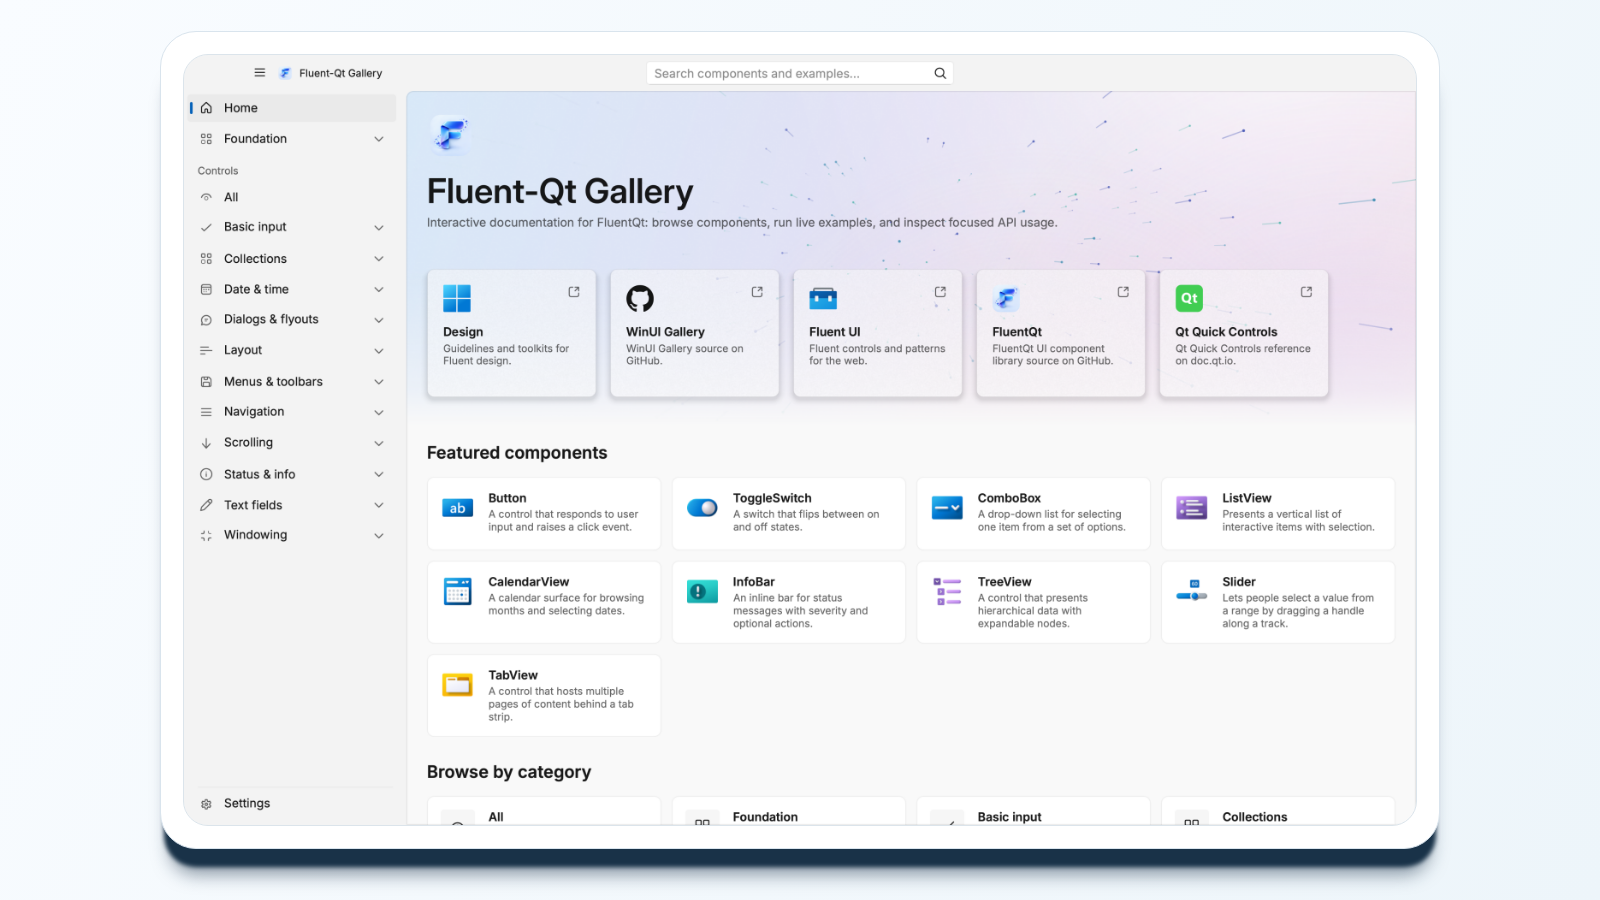
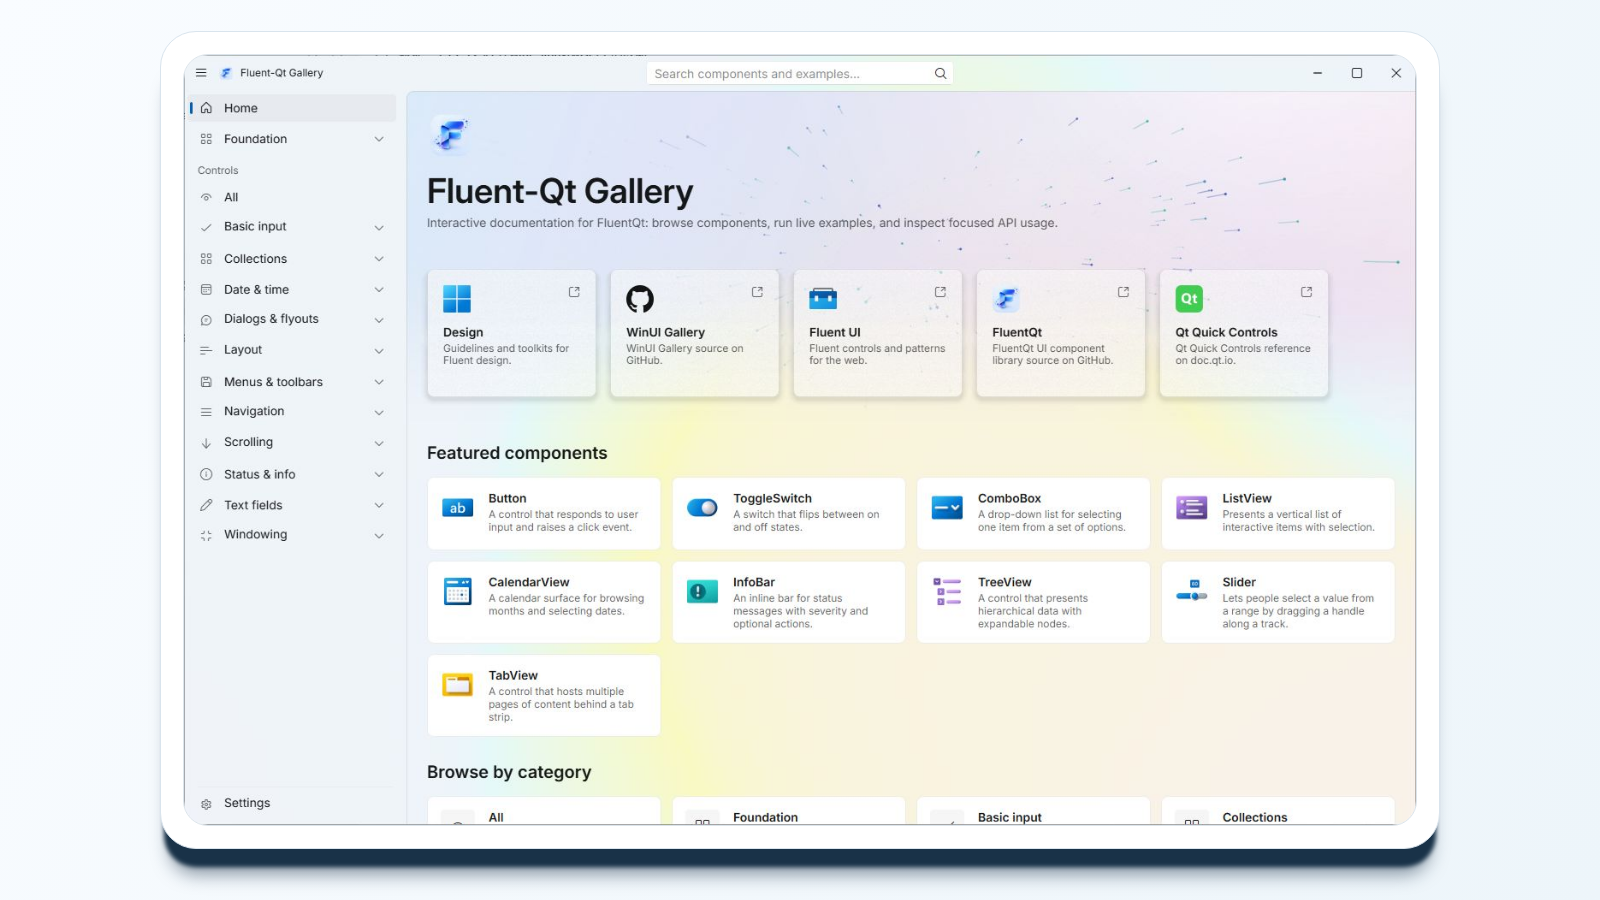
docs(site): refresh gallery materials with Windows Mica captures
Replace first-party README and website imagery with native Windows light/dark captures, regenerate promotional assets and localized pages, and document the capture workflow. Preserve DeepSeek case images and leave runtime behavior unchanged.

diff --git a/site/zh-CN/index.html b/site/zh-CN/index.html
@@ -25,7 +25,7 @@
     <meta property="og:url" content="https://calvinhxx.github.io/Fluent-Qt/zh-CN/">
     <meta property="og:locale" content="zh_CN">
     <meta property="og:locale:alternate" content="en_US">
-    <meta property="og:image" content="https://calvinhxx.github.io/Fluent-Qt/assets/og.png?v=8d51afd1e1c7">
+    <meta property="og:image" content="https://calvinhxx.github.io/Fluent-Qt/assets/og.png?v=bc0a71a1892e">
     <meta property="og:image:type" content="image/png">
     <meta property="og:image:width" content="1731">
     <meta property="og:image:height" content="909">
@@ -36,7 +36,7 @@
       name="twitter:description"
       content="FluentQt（Fluent-Qt）是面向 Qt Widgets 的 C++17 Fluent UI 控件库，支持 Qt 5/6、可选 PySide6 绑定和 WebAssembly。在线体验 Gallery，查看 API 与接入示例。"
     >
-    <meta name="twitter:image" content="https://calvinhxx.github.io/Fluent-Qt/assets/og.png?v=8d51afd1e1c7">
+    <meta name="twitter:image" content="https://calvinhxx.github.io/Fluent-Qt/assets/og.png?v=bc0a71a1892e">
     <meta name="twitter:image:alt" content="Fluent-Qt Gallery 项目预览，展示原生 Qt Widgets 控件。">
     <meta name="fluent-qt-cloudflare-token" content="faf445759813451ca2d7a0652139b292">
     <link rel="icon" href="../assets/app-icon.png?v=6bb48ccbdf19">
@@ -59,7 +59,7 @@
             ],
             "version": "1.8.3",
             "license": "https://github.com/calvinhxx/Fluent-Qt/blob/main/LICENSE",
-            "image": "https://calvinhxx.github.io/Fluent-Qt/assets/og.png?v=8d51afd1e1c7",
+            "image": "https://calvinhxx.github.io/Fluent-Qt/assets/og.png?v=bc0a71a1892e",
             "inLanguage": "zh-CN",
             "sameAs": [
               "https://github.com/calvinhxx/Fluent-Qt",
@@ -228,10 +228,10 @@
               data-analytics-event="hero_visual_gallery"
             >
               <img
-                src="../assets/gallery/gallery-home-real.png?v=5e727a839021"
-                data-theme-src-light="../assets/gallery/gallery-home-real.png?v=5e727a839021"
-                data-theme-src-dark="../assets/gallery/gallery-home-dark.png?v=c159756b01ac"
-                alt="Fluent-Qt Gallery 首页，完整展示控件分类和示例"
+                src="../assets/gallery/gallery-home-real.png?v=4ffb5f74ded2"
+                data-theme-src-light="../assets/gallery/gallery-home-real.png?v=4ffb5f74ded2"
+                data-theme-src-dark="../assets/gallery/gallery-home-dark.png?v=3f7c83c9a9f9"
+                alt="Windows Mica 效果下的 Fluent-Qt Gallery 首页，展示控件分类和示例"
                 data-i18n-alt="images.hero"
                 width="1440"
                 height="900"
@@ -340,7 +340,7 @@
             <div class="live-gallery-viewport">
               <img
                 class="live-gallery-poster"
-                src="../assets/gallery/gallery-hero-real.png?v=695215d3a642"
+                src="../assets/gallery/gallery-hero-real.png?v=c95ba56bcffd"
                 alt="C++ Web Gallery 加载前预览"
                 data-i18n-alt="images.webGallery"
                 width="1600"
@@ -500,10 +500,10 @@
           <div class="showcase-feature" data-reveal>
             <figure class="showcase-media">
               <img
-                src="../assets/gallery/gallery-button-real.png?v=a46105066e1f"
-                data-theme-src-light="../assets/gallery/gallery-button-real.png?v=a46105066e1f"
-                data-theme-src-dark="../assets/gallery/gallery-button-dark.png?v=a774c8876fdf"
-                alt="Fluent-Qt Gallery 中完整的 Button 控件页面"
+                src="../assets/gallery/gallery-button-real.png?v=1a157ef42b6b"
+                data-theme-src-light="../assets/gallery/gallery-button-real.png?v=1a157ef42b6b"
+                data-theme-src-dark="../assets/gallery/gallery-button-dark.png?v=74b53b0df684"
+                alt="Windows Mica 效果下的 Fluent-Qt Gallery Button 控件页面"
                 data-i18n-alt="images.button"
                 width="1440"
                 height="900"
@@ -526,10 +526,10 @@
             <article>
               <figure class="showcase-media">
                 <img
-                  src="../assets/gallery/gallery-collections-real.png?v=96136c3dc6f2"
-                  data-theme-src-light="../assets/gallery/gallery-collections-real.png?v=96136c3dc6f2"
-                  data-theme-src-dark="../assets/gallery/gallery-collections-dark.png?v=aa445341e20e"
-                  alt="Fluent-Qt Gallery 中的集合视图页面"
+                  src="../assets/gallery/gallery-collections-real.png?v=05a7cc8069a1"
+                  data-theme-src-light="../assets/gallery/gallery-collections-real.png?v=05a7cc8069a1"
+                  data-theme-src-dark="../assets/gallery/gallery-collections-dark.png?v=b7442d6817ff"
+                  alt="Windows Mica 效果下的 Fluent-Qt Gallery 集合视图页面"
                   data-i18n-alt="images.collections"
                   width="1440"
                   height="900"
@@ -542,10 +542,10 @@
             <article>
               <figure class="showcase-media">
                 <img
-                  src="../assets/gallery/gallery-home-real.png?v=5e727a839021"
-                  data-theme-src-light="../assets/gallery/gallery-home-real.png?v=5e727a839021"
-                  data-theme-src-dark="../assets/gallery/gallery-home-dark.png?v=c159756b01ac"
-                  alt="Fluent-Qt Gallery 的导航与窗口界面"
+                  src="../assets/gallery/gallery-home-real.png?v=4ffb5f74ded2"
+                  data-theme-src-light="../assets/gallery/gallery-home-real.png?v=4ffb5f74ded2"
+                  data-theme-src-dark="../assets/gallery/gallery-home-dark.png?v=3f7c83c9a9f9"
+                  alt="Windows Mica 效果下的 Fluent-Qt Gallery 导航与窗口界面"
                   data-i18n-alt="images.system"
                   width="1440"
                   height="900"

diff --git a/site/index.html b/site/index.html
@@ -25,7 +25,7 @@
     <meta property="og:url" content="https://calvinhxx.github.io/Fluent-Qt/">
     <meta property="og:locale" content="en_US">
     <meta property="og:locale:alternate" content="zh_CN">
-    <meta property="og:image" content="https://calvinhxx.github.io/Fluent-Qt/assets/og.png?v=8d51afd1e1c7">
+    <meta property="og:image" content="https://calvinhxx.github.io/Fluent-Qt/assets/og.png?v=bc0a71a1892e">
     <meta property="og:image:type" content="image/png">
     <meta property="og:image:width" content="1731">
     <meta property="og:image:height" content="909">
@@ -36,7 +36,7 @@
       name="twitter:description"
       content="FluentQt (Fluent-Qt) is a C++17 Fluent UI library for Qt Widgets, with Qt 5/6, optional PySide6 bindings, and WebAssembly. Try the Gallery and setup examples."
     >
-    <meta name="twitter:image" content="https://calvinhxx.github.io/Fluent-Qt/assets/og.png?v=8d51afd1e1c7">
+    <meta name="twitter:image" content="https://calvinhxx.github.io/Fluent-Qt/assets/og.png?v=bc0a71a1892e">
     <meta name="twitter:image:alt" content="Fluent-Qt Gallery project preview with native Qt Widgets controls.">
     <meta name="fluent-qt-cloudflare-token" content="faf445759813451ca2d7a0652139b292">
     <link rel="icon" href="assets/app-icon.png?v=6bb48ccbdf19">
@@ -59,7 +59,7 @@
             ],
             "version": "1.8.3",
             "license": "https://github.com/calvinhxx/Fluent-Qt/blob/main/LICENSE",
-            "image": "https://calvinhxx.github.io/Fluent-Qt/assets/og.png?v=8d51afd1e1c7",
+            "image": "https://calvinhxx.github.io/Fluent-Qt/assets/og.png?v=bc0a71a1892e",
             "inLanguage": "en",
             "sameAs": [
               "https://github.com/calvinhxx/Fluent-Qt",
@@ -228,10 +228,10 @@
               data-analytics-event="hero_visual_gallery"
             >
               <img
-                src="assets/gallery/gallery-home-real.png?v=5e727a839021"
-                data-theme-src-light="assets/gallery/gallery-home-real.png?v=5e727a839021"
-                data-theme-src-dark="assets/gallery/gallery-home-dark.png?v=c159756b01ac"
-                alt="Fluent-Qt Gallery home showing the complete control catalog and samples"
+                src="assets/gallery/gallery-home-real.png?v=4ffb5f74ded2"
+                data-theme-src-light="assets/gallery/gallery-home-real.png?v=4ffb5f74ded2"
+                data-theme-src-dark="assets/gallery/gallery-home-dark.png?v=3f7c83c9a9f9"
+                alt="Fluent-Qt Gallery home on Windows with Mica, showing the control catalog and samples"
                 data-i18n-alt="images.hero"
                 width="1440"
                 height="900"
@@ -340,7 +340,7 @@
             <div class="live-gallery-viewport">
               <img
                 class="live-gallery-poster"
-                src="assets/gallery/gallery-hero-real.png?v=695215d3a642"
+                src="assets/gallery/gallery-hero-real.png?v=c95ba56bcffd"
                 alt="C++ Web Gallery preview before loading"
                 data-i18n-alt="images.webGallery"
                 width="1600"
@@ -500,10 +500,10 @@
           <div class="showcase-feature" data-reveal>
             <figure class="showcase-media">
               <img
-                src="assets/gallery/gallery-button-real.png?v=a46105066e1f"
-                data-theme-src-light="assets/gallery/gallery-button-real.png?v=a46105066e1f"
-                data-theme-src-dark="assets/gallery/gallery-button-dark.png?v=a774c8876fdf"
-                alt="Complete Button control page in Fluent-Qt Gallery"
+                src="assets/gallery/gallery-button-real.png?v=1a157ef42b6b"
+                data-theme-src-light="assets/gallery/gallery-button-real.png?v=1a157ef42b6b"
+                data-theme-src-dark="assets/gallery/gallery-button-dark.png?v=74b53b0df684"
+                alt="Button control page in Fluent-Qt Gallery on Windows with Mica"
                 data-i18n-alt="images.button"
                 width="1440"
                 height="900"
@@ -526,10 +526,10 @@
             <article>
               <figure class="showcase-media">
                 <img
-                  src="assets/gallery/gallery-collections-real.png?v=96136c3dc6f2"
-                  data-theme-src-light="assets/gallery/gallery-collections-real.png?v=96136c3dc6f2"
-                  data-theme-src-dark="assets/gallery/gallery-collections-dark.png?v=aa445341e20e"
-                  alt="Collections page in Fluent-Qt Gallery"
+                  src="assets/gallery/gallery-collections-real.png?v=05a7cc8069a1"
+                  data-theme-src-light="assets/gallery/gallery-collections-real.png?v=05a7cc8069a1"
+                  data-theme-src-dark="assets/gallery/gallery-collections-dark.png?v=b7442d6817ff"
+                  alt="Collections page in Fluent-Qt Gallery on Windows with Mica"
                   data-i18n-alt="images.collections"
                   width="1440"
                   height="900"
@@ -542,10 +542,10 @@
             <article>
               <figure class="showcase-media">
                 <img
-                  src="assets/gallery/gallery-home-real.png?v=5e727a839021"
-                  data-theme-src-light="assets/gallery/gallery-home-real.png?v=5e727a839021"
-                  data-theme-src-dark="assets/gallery/gallery-home-dark.png?v=c159756b01ac"
-                  alt="Navigation and window UI in Fluent-Qt Gallery"
+                  src="assets/gallery/gallery-home-real.png?v=4ffb5f74ded2"
+                  data-theme-src-light="assets/gallery/gallery-home-real.png?v=4ffb5f74ded2"
+                  data-theme-src-dark="assets/gallery/gallery-home-dark.png?v=3f7c83c9a9f9"
+                  alt="Navigation and window UI in Fluent-Qt Gallery on Windows with Mica"
                   data-i18n-alt="images.system"
                   width="1440"
                   height="900"

diff --git a/site/site.js b/site/site.js
@@ -137,12 +137,12 @@ const translations = {
     "footer.readme": "README",
     "footer.license": "项目 MIT 许可证",
     "footer.notices": "第三方声明",
-    "images.hero": "Fluent-Qt Gallery 首页，完整展示控件分类和示例",
-    "images.button": "Fluent-Qt Gallery 中完整的 Button 控件页面",
+    "images.hero": "Windows Mica 效果下的 Fluent-Qt Gallery 首页，展示控件分类和示例",
+    "images.button": "Windows Mica 效果下的 Fluent-Qt Gallery Button 控件页面",
     "images.toggle": "Fluent-Qt Gallery 中完整的 ToggleSwitch 控件页面",
     "images.slider": "Fluent-Qt Gallery 中完整的 Slider 控件页面",
-    "images.collections": "Fluent-Qt Gallery 中的集合视图页面",
-    "images.system": "Fluent-Qt Gallery 的导航与窗口界面",
+    "images.collections": "Windows Mica 效果下的 Fluent-Qt Gallery 集合视图页面",
+    "images.system": "Windows Mica 效果下的 Fluent-Qt Gallery 导航与窗口界面",
     "images.webGallery": "C++ Web Gallery 加载前预览",
     "images.deepseekDesktop": "使用 build-fluentqt-gui 构建的 DeepSeek Desktop 原生桌面参考界面",
     "images.settings": "Fluent-Qt Gallery 设置页面，完整展示主题、风格和窗口选项",
@@ -286,12 +286,12 @@ const translations = {
     "footer.readme": "README",
     "footer.license": "Project MIT License",
     "footer.notices": "Third-party notices",
-    "images.hero": "Fluent-Qt Gallery home showing the complete control catalog and samples",
-    "images.button": "Complete Button control page in Fluent-Qt Gallery",
+    "images.hero": "Fluent-Qt Gallery home on Windows with Mica, showing the control catalog and samples",
+    "images.button": "Button control page in Fluent-Qt Gallery on Windows with Mica",
     "images.toggle": "Complete ToggleSwitch control page in Fluent-Qt Gallery",
     "images.slider": "Complete Slider control page in Fluent-Qt Gallery",
-    "images.collections": "Collections page in Fluent-Qt Gallery",
-    "images.system": "Navigation and window UI in Fluent-Qt Gallery",
+    "images.collections": "Collections page in Fluent-Qt Gallery on Windows with Mica",
+    "images.system": "Navigation and window UI in Fluent-Qt Gallery on Windows with Mica",
     "images.webGallery": "C++ Web Gallery preview before loading",
     "images.deepseekDesktop": "Native DeepSeek Desktop reference UI built with build-fluentqt-gui",
     "images.settings": "Complete Gallery settings page showing theme, style, and window options",

diff --git a/tools/site/index.template.html b/tools/site/index.template.html
@@ -191,7 +191,7 @@
                 src="assets/gallery/gallery-home-real.png"
                 data-theme-src-light="assets/gallery/gallery-home-real.png"
                 data-theme-src-dark="assets/gallery/gallery-home-dark.png"
-                alt="Fluent-Qt Gallery 首页，完整展示控件分类和示例"
+                alt="Windows Mica 效果下的 Fluent-Qt Gallery 首页，展示控件分类和示例"
                 data-i18n-alt="images.hero"
                 width="1440"
                 height="900"
@@ -463,7 +463,7 @@
                 src="assets/gallery/gallery-button-real.png"
                 data-theme-src-light="assets/gallery/gallery-button-real.png"
                 data-theme-src-dark="assets/gallery/gallery-button-dark.png"
-                alt="Fluent-Qt Gallery 中完整的 Button 控件页面"
+                alt="Windows Mica 效果下的 Fluent-Qt Gallery Button 控件页面"
                 data-i18n-alt="images.button"
                 width="1440"
                 height="900"
@@ -489,7 +489,7 @@
                   src="assets/gallery/gallery-collections-real.png"
                   data-theme-src-light="assets/gallery/gallery-collections-real.png"
                   data-theme-src-dark="assets/gallery/gallery-collections-dark.png"
-                  alt="Fluent-Qt Gallery 中的集合视图页面"
+                  alt="Windows Mica 效果下的 Fluent-Qt Gallery 集合视图页面"
                   data-i18n-alt="images.collections"
                   width="1440"
                   height="900"
@@ -505,7 +505,7 @@
                   src="assets/gallery/gallery-home-real.png"
                   data-theme-src-light="assets/gallery/gallery-home-real.png"
                   data-theme-src-dark="assets/gallery/gallery-home-dark.png"
-                  alt="Fluent-Qt Gallery 的导航与窗口界面"
+                  alt="Windows Mica 效果下的 Fluent-Qt Gallery 导航与窗口界面"
                   data-i18n-alt="images.system"
                   width="1440"
                   height="900"

diff --git a/tools/site/promo-assets.html b/tools/site/promo-assets.html
@@ -163,7 +163,7 @@
   <body>
     <section class="readme" id="readme" aria-label="Gallery preview">
       <figure class="readme-window">
-        <img src="../../site/assets/gallery/gallery-home-real.png" width="1440" height="900" alt="Fluent-Qt Gallery home">
+        <img src="../../site/assets/gallery/gallery-home-real.png" width="1440" height="900" alt="Fluent-Qt Gallery home on Windows with Mica">
       </figure>
     </section>
     <section class="social" id="social" aria-label="Fluent-Qt">
@@ -175,7 +175,7 @@
       </div>
       <div class="product">
         <figure class="product-window">
-          <img src="../../site/assets/gallery/gallery-home-real.png" width="1440" height="900" alt="Fluent-Qt Gallery home">
+          <img src="../../site/assets/gallery/gallery-home-real.png" width="1440" height="900" alt="Fluent-Qt Gallery home on Windows with Mica">
         </figure>
       </div>
     </section>

diff --git a/docs/development/site-workflow.md b/docs/development/site-workflow.md
@@ -67,20 +67,33 @@ blur filters: their cost grows quickly with density.
 
 ## Gallery screenshots
 
-Use the current native Gallery for product images. Build `test_gallery_content_pages`
-using the [build workflow](build-workflow.md), then capture each route in Light
-and Dark. On macOS, for example:
+Use the current **Windows native Gallery with Mica** for README and first-party
+website product images. Build `fluent_qt_gallery` using the
+[build workflow](build-workflow.md). Capture the real composed window in Light
+and Dark at 1440×900, with the Windows caption buttons visible. Keep third-party
+case-study images in their original platform and do not add simulated window
+chrome or a painted Mica background.
 
-```bash
-env -u SKIP_VISUAL_TEST QT_QPA_PLATFORM=cocoa VISUAL_SNAPSHOT=1 \
-  QT_SCALE_FACTOR=1 QT_FONT_DPI=96 GALLERY_PARITY_ROUTE=home GALLERY_PARITY_THEME=dark \
-  ./build/vcpkg-osx/tests/gallery/test_gallery_content_pages \
-  --gtest_filter=GalleryContentPagesTest.PythonParityVisualCheck
-```
+In Gallery Settings, select Mica as the window effect and choose the required
+theme. Keep the window active and unmaximized, wait for the splash and navigation
+animations to finish, and move the pointer outside the captured window. Use
+Windows Graphics Capture (for example, Computer Use's native window capture),
+not `QWidget::grab()`: Mica is supplied by the desktop compositor. The
+`PythonParityVisualCheck` and `FoundationVisualCheck` fixtures deliberately use
+`BackdropEffect::Solid` for deterministic test snapshots; they are not the source
+for these marketing images. Restore any capture-only changes to local Gallery
+preferences afterward.
 
-Use `home`, `button`, and `collections` for the website images. The shared helper
-writes 1440×900 PNGs to `build/vcpkg-osx/visual/`. Review the captures before
-replacing the matching Light/Dark assets in `site/assets/gallery/`.
+Review `home`, `button`, and `collections` in both themes for the website. Also
+refresh the stored `slider` and `toggle-switch` material so the Gallery asset set
+stays on the same platform. Save the reviewed frames under the existing names in
+`site/assets/gallery/`: `*-real.png` is Light and `*-dark.png` is Dark. Keep the
+home JPEGs at `docs/assets/readme/gallery-home.jpg` and
+`site/assets/gallery-home.jpg` synchronized with the Light home capture. Preserve
+the captured pixels when converting formats; do not retouch native controls.
+
+The current set was captured on Windows with Qt 6.9.3 from revision `8dfba78f`
+on 2026-09-16. Both Home captures use the Gallery's Starfield particle effect.
 
 The README, Gallery loading poster, and sharing card use designed compositions.
 Keep the README's frame, spacing, and shadow; keep the sharing card's brand,

diff --git a/docs/README.md b/docs/README.md
@@ -6,7 +6,7 @@ FluentQt documentation is organized by task. Start with the Gallery when you
 want to evaluate the library, the API Explorer when you know the component you
 need, and the development tree when you are changing the project itself.
 
-![FluentQt Gallery showing navigation, component cards, and live samples](assets/readme/gallery-home.jpg)
+![FluentQt Gallery on Windows with Mica, showing navigation, component cards, and live samples](assets/readme/gallery-home.jpg)
 
 ## Choose a path
 

diff --git a/README.zh-CN.md b/README.zh-CN.md
@@ -24,7 +24,7 @@
 </p>
 
 <p align="center">
-  <a href="https://calvinhxx.github.io/Fluent-Qt/zh-CN/#top"><img src="docs/assets/readme/hero.png" alt="Fluent-Qt Gallery 预览"></a>
+  <a href="https://calvinhxx.github.io/Fluent-Qt/zh-CN/#top"><img src="docs/assets/readme/hero.png" alt="Windows 下使用 Mica 效果的 Fluent-Qt Gallery"></a>
 </p>
 
 <p align="center">

diff --git a/README.md b/README.md
@@ -24,7 +24,7 @@
 </p>
 
 <p align="center">
-  <a href="https://calvinhxx.github.io/Fluent-Qt/#top"><img src="docs/assets/readme/hero.png" alt="Fluent-Qt Gallery preview"></a>
+  <a href="https://calvinhxx.github.io/Fluent-Qt/#top"><img src="docs/assets/readme/hero.png" alt="Fluent-Qt Gallery on Windows with Mica"></a>
 </p>
 
 <p align="center">
